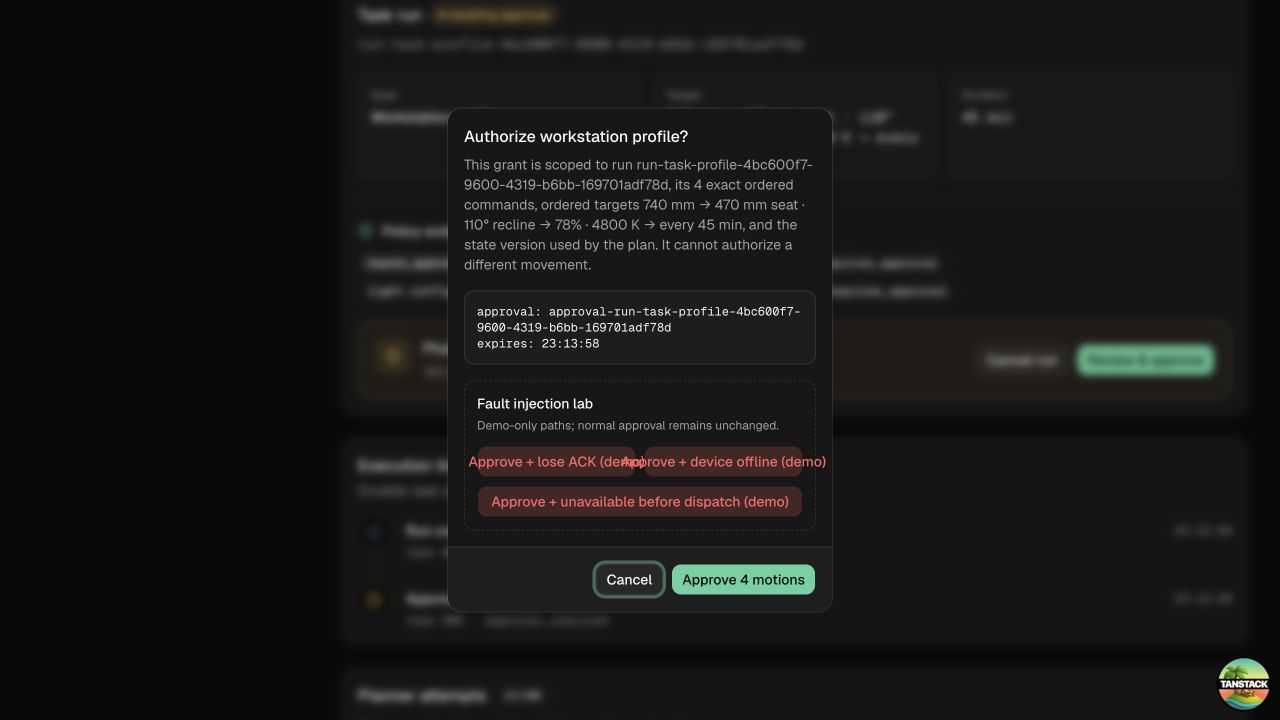
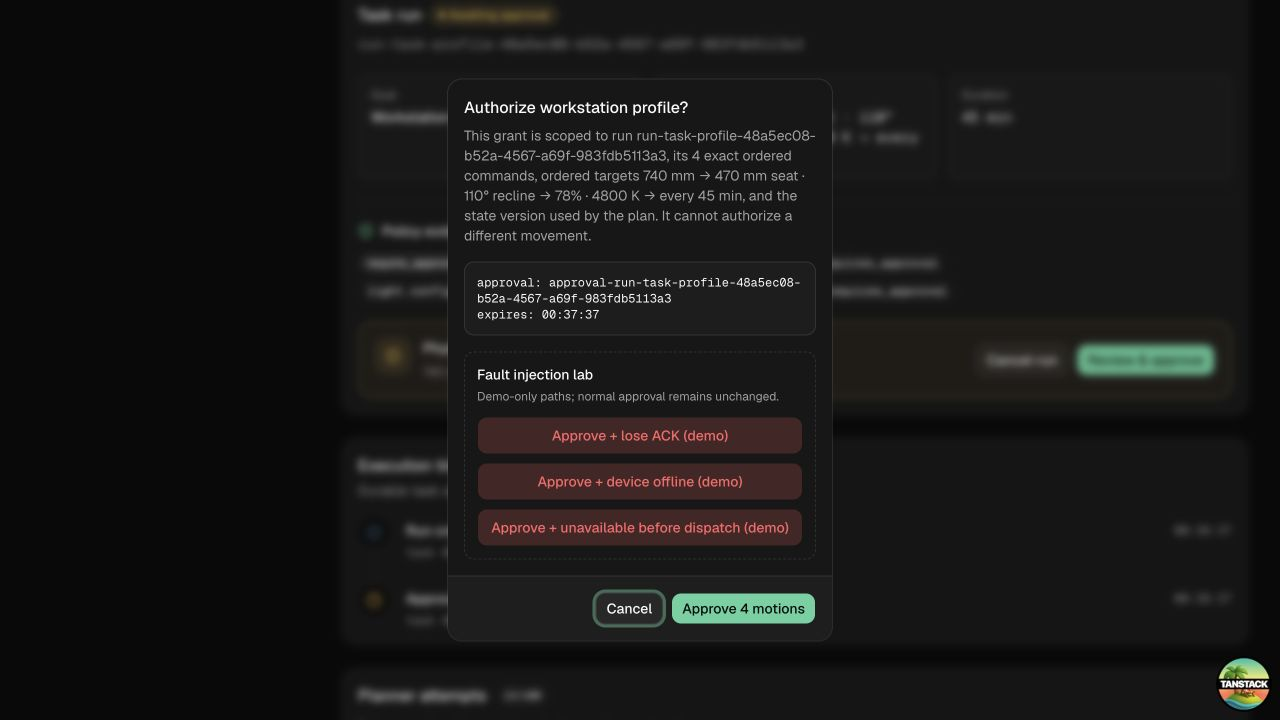
fix: prevent approval controls from overlapping

Changed region(s): [[0.3438, 0.1222, 0.625, 0.4889], [0.375, 0.5194, 0.6562, 0.8861]]

diff --git a/apps/web/src/features/operator-console/run-overview.tsx b/apps/web/src/features/operator-console/run-overview.tsx
@@ -316,16 +316,18 @@ export function RunOverview({
                           Demo-only paths; normal approval remains unchanged.
                         </p>
                       </div>
-                      <div className="grid gap-2 sm:grid-cols-2">
+                      <div className="grid gap-2">
                         <AlertDialogAction
                           variant="destructive"
                           onClick={() => onApproveWithAckLoss(run)}
+                          className="h-auto min-h-8 whitespace-normal! py-2"
                         >
                           Approve + lose ACK (demo)
                         </AlertDialogAction>
                         <AlertDialogAction
                           variant="destructive"
                           onClick={() => onApproveWithDeviceOffline(run)}
+                          className="h-auto min-h-8 whitespace-normal! py-2"
                         >
                           Approve + device offline (demo)
                         </AlertDialogAction>
@@ -334,7 +336,7 @@ export function RunOverview({
                           onClick={() =>
                             onApproveWithDeviceUnavailableBeforeDispatch(run)
                           }
-                          className="sm:col-span-2"
+                          className="h-auto min-h-8 whitespace-normal! py-2"
                         >
                           Approve + unavailable before dispatch (demo)
                         </AlertDialogAction>

diff --git a/README.md b/README.md
@@ -28,7 +28,7 @@ preview, the scoped four-motion approval and the completed profile.
 
 ![ErgoPilot preset-to-verified-action demo](docs/assets/ergopilot-demo.gif)
 
-[Open the 6-second MP4 walkthrough](docs/assets/ergopilot-demo.mp4) ·
+[Open the 6.5-second MP4 walkthrough](docs/assets/ergopilot-demo.mp4) ·
 [View the approval screen](docs/assets/ergopilot-approval.jpg)
 
 ## Current vertical slice

diff --git a/README.zh-CN.md b/README.zh-CN.md
@@ -22,7 +22,7 @@ ErgoPilot 是一个面向模拟人体工学工作站的可恢复具身 Agent 运
 
 ![ErgoPilot 从场景预设到验证完成的演示](docs/assets/ergopilot-demo.gif)
 
-[打开 6 秒 MP4 演示视频](docs/assets/ergopilot-demo.mp4) ·
+[打开 6.5 秒 MP4 演示视频](docs/assets/ergopilot-demo.mp4) ·
 [查看审批界面截图](docs/assets/ergopilot-approval.jpg)
 
 ## 当前纵向切片